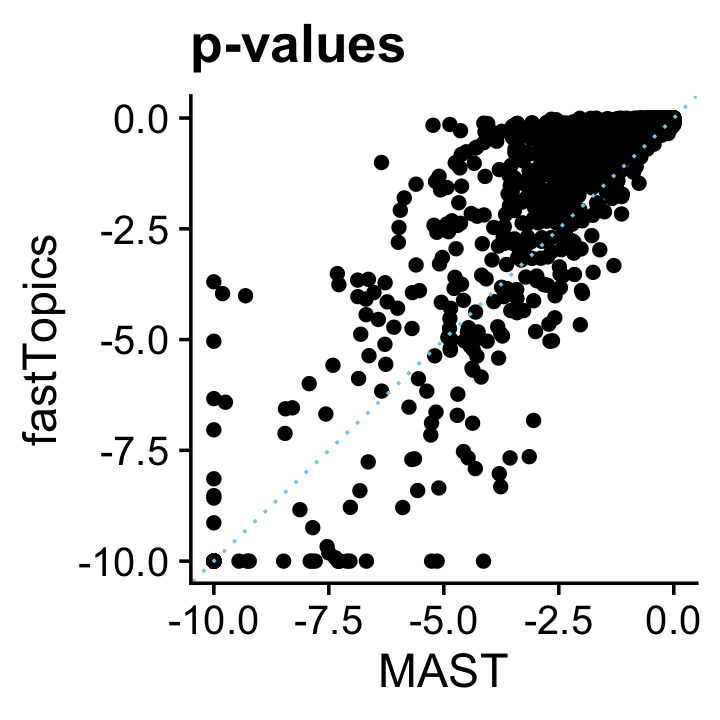
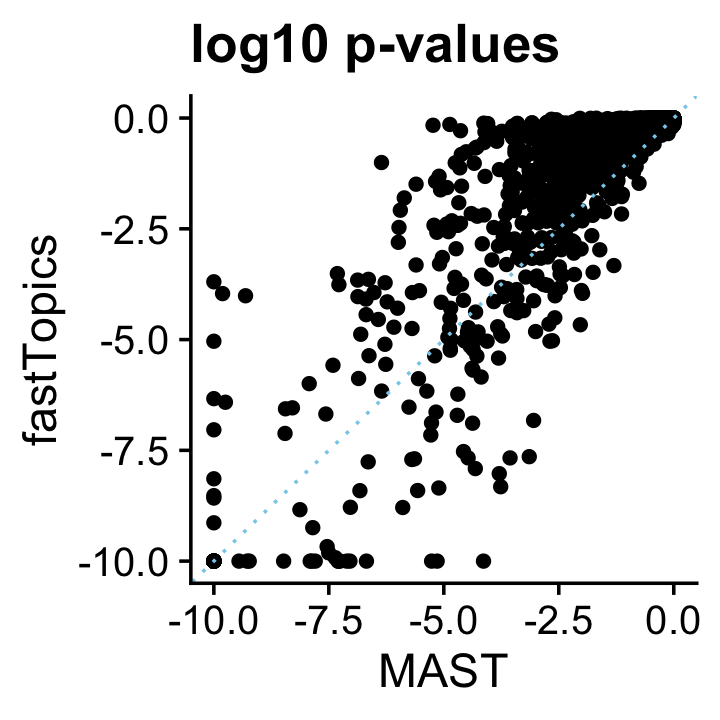
Revised the new plots in de_analysis_detailed_look comparing with MAST.

Changed region(s): [[0.2444, 0.0306, 0.7944, 0.1222]]

diff --git a/docs/de_analysis_detailed_look.html b/docs/de_analysis_detailed_look.html
@@ -429,16 +429,16 @@ fit-poisson-nmf
 <div class="panel panel-default">
 <div class="panel-heading">
 <p class="panel-title">
-<a data-toggle="collapse" data-parent="#workflowr-checks" href="#strongRepositoryversionstrongahrefhttpsgithubcomstephenslabsinglecelltopicstree4dd44afc935f95113cbb9bbfdc4a53154c8d8aa5targetblank4dd44afa"> <span class="glyphicon glyphicon-ok text-success" aria-hidden="true"></span> <strong>Repository version:</strong> <a href="https://github.com/stephenslab/single-cell-topics/tree/4dd44afc935f95113cbb9bbfdc4a53154c8d8aa5" target="_blank">4dd44af</a> </a>
+<a data-toggle="collapse" data-parent="#workflowr-checks" href="#strongRepositoryversionstrongahrefhttpsgithubcomstephenslabsinglecelltopicstree34217d5e3e9a18f3afaacfe00af8e1775506c0e4targetblank34217d5a"> <span class="glyphicon glyphicon-ok text-success" aria-hidden="true"></span> <strong>Repository version:</strong> <a href="https://github.com/stephenslab/single-cell-topics/tree/34217d5e3e9a18f3afaacfe00af8e1775506c0e4" target="_blank">34217d5</a> </a>
 </p>
 </div>
[2 lines of base64/hex data omitted]
 <div class="panel-body">
 <p>
 Great! You are using Git for version control. Tracking code development and connecting the code version to the results is critical for reproducibility.
 </p>
 <p>
-The results in this page were generated with repository version <a href="https://github.com/stephenslab/single-cell-topics/tree/4dd44afc935f95113cbb9bbfdc4a53154c8d8aa5" target="_blank">4dd44af</a>. See the <em>Past versions</em> tab to see a history of the changes made to the R Markdown and HTML files.
+The results in this page were generated with repository version <a href="https://github.com/stephenslab/single-cell-topics/tree/34217d5e3e9a18f3afaacfe00af8e1775506c0e4" target="_blank">34217d5</a>. See the <em>Past versions</em> tab to see a history of the changes made to the R Markdown and HTML files.
 </p>
 <p>
 Note that you need to be careful to ensure that all relevant files for the analysis have been committed to Git prior to generating the results (you can use <code>wflow_publish</code> or <code>wflow_git_commit</code>). workflowr only checks the R Markdown file, but you know if there are other scripts or data files that it depends on. Below is the status of the Git repository when the results were generated:
@@ -503,6 +503,40 @@ Message
 </tr>
 </thead>
 <tbody>
+<tr>
+<td>
+Rmd
+</td>
+<td>
+<a href="https://github.com/stephenslab/single-cell-topics/blob/34217d5e3e9a18f3afaacfe00af8e1775506c0e4/analysis/de_analysis_detailed_look.Rmd" target="_blank">34217d5</a>
+</td>
+<td>
+Peter Carbonetto
+</td>
+<td>
+2021-11-10
+</td>
+<td>
+workflowr::wflow_publish(“de_analysis_detailed_look.Rmd”, verbose = TRUE)
+</td>
+</tr>
+<tr>
+<td>
+html
+</td>
+<td>
+<a href="https://rawcdn.githack.com/stephenslab/single-cell-topics/c0bc1616cd8a654b67b11dd11a46479f3304e943/docs/de_analysis_detailed_look.html" target="_blank">c0bc161</a>
+</td>
+<td>
+Peter Carbonetto
+</td>
+<td>
+2021-11-10
+</td>
+<td>
+Added MAST results to de_analysis_detailed_look analysis.
+</td>
+</tr>
 <tr>
 <td>
 Rmd
@@ -1877,7 +1911,7 @@ Peter Carbonetto
 </table>
 </div>
 </div>
-<p>The next two bar charts show the overall impact of the shrinkage on the distribution of the <span class="math inline">\(z\)</span>-scores; dark blue bars are for diifferentially expressed genes, and orange bars are for non-differentially expressed genes. (For better visualizataion the <span class="math inline">\(z\)</span>-scores have been projected onto the interval <span class="math inline">\([-8,+8]\)</span>.)</p>
+<p>The next two bar charts show the overall impact of the shrinkage on the distribution of the <em>z</em>-scores; dark blue bars are for diifferentially expressed genes, and orange bars are for non-differentially expressed genes. (For better visualizataion the <em>z</em>-scores have been projected onto the interval <span class="math inline">\([-8,+8]\)</span>.)</p>
 <pre class="r"><code>pdat &lt;- data.frame(noshrink = clamp(de.noshrink$z[,2],-8,+8),
                    shrink   = clamp(de$z[,2],-8,+8),
                    de       = factor(nonzero_lfc))
@@ -1954,7 +1988,7 @@ Peter Carbonetto
 </table>
 </div>
 </div>
-<p>And the next two bar charts show the overall impact of the shrinkage on the <span class="math inline">\(p\)</span>-values.</p>
+<p>And the next two bar charts show the overall impact of the shrinkage on the <em>p</em>-values.</p>
 <pre class="r"><code>pdat &lt;- data.frame(noshrink = 10^(-de.noshrink$lpval[,2]),
                    shrink   = 10^(-de$lpval[,2]),
                    de       = factor(nonzero_lfc))
@@ -2031,7 +2065,7 @@ Peter Carbonetto
 </table>
 </div>
 </div>
-<p>Both the <span class="math inline">\(z\)</span>-score and <span class="math inline">\(p\)</span>-value plots show that the adaptive shrinkage step more strongly encourages the LFC estimates for the non-DE genes toward zero.</p>
+<p>Both the <em>z</em>-score and <em>p</em>-value plots show that the adaptive shrinkage step more strongly encourages the LFC estimates for the non-DE genes toward zero.</p>
 </div>
 <div id="quantifying-uncertainty-in-the-lfc-estimates" class="section level2">
 <h2>Quantifying uncertainty in the LFC estimates</h2>
@@ -2108,7 +2142,7 @@ Peter Carbonetto
 </table>
 </div>
 </div>
-<p>To illustrate the impact of this on the DE analysis, consider the K-L divergence measure used in Dey, Hsiao &amp; Stephens (2017) to rank genes, a measure which doesn’t fully account for uncertainty in the LFCs. Since the K-L divergence is not a signed ranking measure like the <span class="math inline">\(z\)</span>-score, here we focus only on genes that are estimated to have greater expression in topic 2 compared to topic 1. (For better visualization, we show the distribution of the K-L divergences on the log scale, and any <span class="math inline">\(z\)</span>-scores larger than 4 are shown as 4.)</p>
+<p>To illustrate the impact of this on the DE analysis, consider the K-L divergence measure used in Dey, Hsiao &amp; Stephens (2017) to rank genes, a measure which doesn’t fully account for uncertainty in the LFCs. Since the K-L divergence is not a signed ranking measure like the <em>z</em>-score, here we focus only on genes that are estimated to have greater expression in topic 2 compared to topic 1. (For better visualization, we show the distribution of the K-L divergences on the log scale, and any <em>z</em>-scores larger than 4 are shown as 4.)</p>
 <pre class="r"><code>i     &lt;- which(fit$F[,2] - fit$F[,1] &gt; -1e-8)
 D     &lt;- fastTopics:::min_kl_poisson(fit$F)
 pdat1 &lt;- data.frame(lkl = log10(D[,2] + 1e-8),de = factor(nonzero_lfc))
@@ -2177,7 +2211,7 @@ Peter Carbonetto
 </table>
 </div>
 </div>
-<p>Without fully accounting for uncertainty, sometimes genes with very large LFCs get highly ranked by the K-L divergence measure (while also being uncertain about these estimates), whereas this happens less often for the <span class="math inline">\(z\)</span>-scores.</p>
+<p>Without fully accounting for uncertainty, sometimes genes with very large LFCs get highly ranked by the K-L divergence measure (while also being uncertain about these estimates), whereas this happens less often for the <em>z</em>-scores.</p>
 <p>To underscore the importance of accounting for uncertainty, suppose we used the KL-divergences and the <em>p</em>-values returned by <code>de_analysis(shrink.method = &quot;ash&quot;)</code> to discover differentially expressed genes. The power vs. FDR curves show that, at low false discovery rates (say, FDR &lt; 0.2), the rankings accounting for uncertainty in the LFC estimates (with or without shrinkage) perform much better than the ranking based on the KL divergence measure. We also see that using adaptive shrinkage produces a modest improvement. As before, to draw a fair comparison with the K-L divergence-based ranking, we focus only on genes that are estimated to have greater expression in topic 2 compared to topic 1.</p>
 <pre class="r"><code>pdat1 &lt;- create_fdr_vs_power_curve(-D[i,2],nonzero_lfc[i],length.out = 140)
 pdat2 &lt;- create_fdr_vs_power_curve(-de.noshrink$lpval[i,2],nonzero_lfc[i],
@@ -2305,7 +2339,7 @@ Peter Carbonetto
 </div>
 <div id="assessing-accuracy-of-the-monte-carlo-estimates" class="section level2">
 <h2>Assessing accuracy of the Monte Carlo estimates</h2>
-<p>We use a simple MCMC algorithm to estimate LFC posterior statistics. To assess accuracy of the posterior calculations, we perform the DE analysis twice, and compare the <span class="math inline">\(z\)</span>-scores returned by the two <code>de_analysis</code> runs. If the <span class="math inline">\(z\)</span>-scores are very consistent between the two runs this suggests that they are mostly accurate.</p>
+<p>We use a simple MCMC algorithm to estimate LFC posterior statistics. To assess accuracy of the posterior calculations, we perform the DE analysis twice, and compare the <em>z</em>-scores returned by the two <code>de_analysis</code> runs. If the <em>z</em>-scores are very consistent between the two runs this suggests that they are mostly accurate.</p>
 <p>To illustrate, we first compute the posteriors using 1,000 Monte Carlo samples:</p>
 <pre class="r"><code>set.seed(1); de1 &lt;- de_analysis(fit,X,control = list(ns = 1000,nc = 2))
 # Using 2 RcppParallel threads.
@@ -2319,7 +2353,7 @@ set.seed(2); de2 &lt;- de_analysis(fit,X,control = list(ns = 1000,nc = 2))
 # Fitting 10000 Poisson models with k=2 using method=&quot;scd&quot;.
 # Computing log-fold change statistics from 10000 Poisson models with k=2.
 # Stabilizing posterior log-fold change estimates using adaptive shrinkage.</code></pre>
-<p>Now we compare the <span class="math inline">\(z\)</span>-scores estimated by these two runs in a simple scatterplot:</p>
+<p>Now we compare the <em>z</em>-scores estimated by these two runs in a simple scatterplot:</p>
 <pre class="r"><code>pdat &lt;- data.frame(x = de1$z[,2],y = de2$z[,2])
 ggplot(pdat,aes(x = x,y = y,fill = log10mean)) +
   geom_point(shape = 21,color = &quot;white&quot;,fill = &quot;royalblue&quot;,size = 2) +
@@ -2384,7 +2418,7 @@ set.seed(2); de2 &lt;- de_analysis(fit,X,control = list(ns = 10000,nc = 2))
 >knitr cache options</a> for more details.
 </p>
 </div>
-<p>Indeed, with 10,000 Monte Carlo samples the two sets of <span class="math inline">\(z\)</span>-score estimates are now very similar:</p>
+<p>Indeed, with 10,000 Monte Carlo samples the two sets of <em>z</em>-score estimates are now very similar:</p>
 <pre class="r"><code>pdat &lt;- data.frame(x = de1$z[,2],y = de2$z[,2])
 ggplot(pdat,aes(x = x,y = y,fill = log10mean)) +
   geom_point(shape = 21,color = &quot;white&quot;,fill = &quot;royalblue&quot;,size = 2) +
@@ -2472,7 +2506,7 @@ deseq &lt;- lfcShrink(deseq,coef = &quot;cluster_2_vs_1&quot;,type = &quot;ashr&
 # using &#39;ashr&#39; for LFC shrinkage. If used in published research, please cite:
 #     Stephens, M. (2016) False discovery rates: a new deal. Biostatistics, 18:2.
 #     https://doi.org/10.1093/biostatistics/kxw041</code></pre>
-<p>Now we run the MAST DE analysis via the “FindMarkers” interface in Seurat:</p>
+<p>Now we run the MAST differential expression analysis via the “FindMarkers” interface in Seurat:</p>
 <pre class="r"><code>seurat &lt;- CreateSeuratObject(counts = t(X))
 Idents(seurat) &lt;- cluster
 mast &lt;- FindMarkers(seurat,ident.1 = &quot;2&quot;,ident.2 = NULL,test.use = &quot;MAST&quot;,
@@ -2480,30 +2514,11 @@ mast &lt;- FindMarkers(seurat,ident.1 = &quot;2&quot;,ident.2 = NULL,test.use = 
 # 
 # Done!
 # Combining coefficients and standard errors
-# Warning in melt(coefAndCI, as.is = TRUE): The melt generic in data.table has
-# been passed a array and will attempt to redirect to the relevant reshape2
-# method; please note that reshape2 is deprecated, and this redirection is now
-# deprecated as well. To continue using melt methods from reshape2 while both
-# libraries are attached, e.g. melt.list, you can prepend the namespace like
-# reshape2::melt(coefAndCI). In the next version, this warning will become an
-# error.
 # Calculating log-fold changes
-# Warning in melt(lfc): The melt generic in data.table has been passed a list
-# and will attempt to redirect to the relevant reshape2 method; please note that
-# reshape2 is deprecated, and this redirection is now deprecated as well. To
-# continue using melt methods from reshape2 while both libraries are attached,
-# e.g. melt.list, you can prepend the namespace like reshape2::melt(lfc). In the
-# next version, this warning will become an error.
 # Calculating likelihood ratio tests
 # Refitting on reduced model...
 # 
-# Done!
-# Warning in melt(llrt): The melt generic in data.table has been passed a list
-# and will attempt to redirect to the relevant reshape2 method; please note that
-# reshape2 is deprecated, and this redirection is now deprecated as well. To
-# continue using melt methods from reshape2 while both libraries are attached,
-# e.g. melt.list, you can prepend the namespace like reshape2::melt(llrt). In the
-# next version, this warning will become an error.</code></pre>
+# Done!</code></pre>
 <p>The posterior mean estimates from the fastTopics DE analysis closely align with the DESeq2 estimates:</p>
 <pre class="r"><code>pdat &lt;- data.frame(DESeq2     = deseq$log2FoldChange,
                    fastTopics = de$postmean[,2])
@@ -2550,17 +2565,7 @@ Peter Carbonetto
 </table>
 </div>
 </div>
-<p><em>Add text here.</em></p>
-<pre class="r"><code>genes &lt;- rownames(mast)
-pdat  &lt;- data.frame(MAST       = mast$avg_logFC,
-                    fastTopics = de$postmean[genes,2])
-ggplot(pdat,aes(x = MAST,y = fastTopics)) +
-  geom_point() +
-  geom_abline(intercept = 0,slope = 1,color = &quot;skyblue&quot;,linetype = &quot;dotted&quot;) +
-  ggtitle(&quot;LFC estimates&quot;) +
-  theme_cowplot()</code></pre>
-<p><img src="figure/de_analysis_detailed_look.Rmd/fasttopics-vs-mast-1.png" width="360" style="display: block; margin: auto;" /></p>
-<p>And likewise the <span class="math inline">\(z\)</span>-scores:</p>
+<p>And likewise the <em>z</em>-scores:</p>
 <pre class="r"><code>deseq$z &lt;- with(deseq,log2FoldChange/lfcSE)
 pdat &lt;- data.frame(DESeq2     = deseq$z,
                    fastTopics = de$z[,2])
@@ -2618,7 +2623,7 @@ Peter Carbonetto
 </table>
 </div>
 </div>
-<p>The <span class="math inline">\(p\)</span>-value and LFSR distributions are also correspondingly similar in shape:</p>
+<p>The <em>p</em>-value and LFSR distributions are also correspondingly similar in shape:</p>
 <pre class="r"><code>pdat &lt;- data.frame(deseq2 = deseq$padj,
                    shrink = de$lfsr[,2],
                    de     = factor(nonzero_lfc))
@@ -2684,15 +2689,100 @@ Peter Carbonetto
 </table>
 </div>
 </div>
-<p><em>Add text here.</em></p>
+<p>The MAST LFC estimates broadly resemble the fastTopics estimates, although the MAST estimates tend to be underestimates, and occasionally some estimates that are much more extreme (and probably would benefit from a shrinkage step, e.g., using adaptive shrinkage):</p>
+<pre class="r"><code>genes &lt;- rownames(mast)
+pdat  &lt;- data.frame(MAST       = mast$avg_logFC,
+                    fastTopics = de$postmean[genes,2])
+ggplot(pdat,aes(x = MAST,y = fastTopics)) +
+  geom_point() +
+  geom_abline(intercept = 0,slope = 1,color = &quot;skyblue&quot;,linetype = &quot;dotted&quot;) +
+  ggtitle(&quot;LFC estimates&quot;) +
+  theme_cowplot()</code></pre>
+<p><img src="figure/de_analysis_detailed_look.Rmd/fasttopics-vs-mast-1.png" width="360" style="display: block; margin: auto;" /></p>
+<p>
+<button type="button" class="btn btn-default btn-xs btn-workflowr btn-workflowr-fig" data-toggle="collapse" data-target="#fig-fasttopics-vs-mast-1">
+Past versions of fasttopics-vs-mast-1.png
+</button>
+</p>
+<div id="fig-fasttopics-vs-mast-1" class="collapse">
+<div class="table-responsive">
+<table class="table table-condensed table-hover">
+<thead>
+<tr>
+<th>
+Version
+</th>
+<th>
+Author
+</th>
+<th>
+Date
+</th>
+</tr>
+</thead>
+<tbody>
+<tr>
+<td>
+<a href="https://github.com/stephenslab/single-cell-topics/blob/c0bc1616cd8a654b67b11dd11a46479f3304e943/docs/figure/de_analysis_detailed_look.Rmd/fasttopics-vs-mast-1.png" target="_blank">c0bc161</a>
+</td>
+<td>
+Peter Carbonetto
+</td>
+<td>
+2021-11-10
+</td>
+</tr>
+</tbody>
+</table>
+</div>
+</div>
+<p>The <code>FindMarkers</code> function in Seurat does not output <em>z</em>-scores, but we can compare <em>p</em>-values:</p>
 <pre class="r"><code>pdat &lt;- data.frame(MAST       = pmax(-10,log10(mast$p_val)),
                    fastTopics = pmax(-10,-de$lpval[genes,2]))
 ggplot(pdat,aes(x = MAST,y = fastTopics)) +
   geom_point() +
   geom_abline(intercept = 0,slope = 1,color = &quot;skyblue&quot;,linetype = &quot;dotted&quot;) +
-  ggtitle(&quot;p-values&quot;) +
+  ggtitle(&quot;log10 p-values&quot;) +
   theme_cowplot()</code></pre>
 <p><img src="figure/de_analysis_detailed_look.Rmd/fasttopics-vs-mast-pvalues-1.png" width="360" style="display: block; margin: auto;" /></p>
+<p>
+<button type="button" class="btn btn-default btn-xs btn-workflowr btn-workflowr-fig" data-toggle="collapse" data-target="#fig-fasttopics-vs-mast-pvalues-1">
+Past versions of fasttopics-vs-mast-pvalues-1.png
+</button>
+</p>
+<div id="fig-fasttopics-vs-mast-pvalues-1" class="collapse">
+<div class="table-responsive">
+<table class="table table-condensed table-hover">
+<thead>
+<tr>
+<th>
+Version
+</th>
+<th>
+Author
+</th>
+<th>
+Date
+</th>
+</tr>
+</thead>
+<tbody>
+<tr>
+<td>
+<a href="https://github.com/stephenslab/single-cell-topics/blob/c0bc1616cd8a654b67b11dd11a46479f3304e943/docs/figure/de_analysis_detailed_look.Rmd/fasttopics-vs-mast-pvalues-1.png" target="_blank">c0bc161</a>
+</td>
+<td>
+Peter Carbonetto
+</td>
+<td>
+2021-11-10
+</td>
+</tr>
+</tbody>
+</table>
+</div>
+</div>
+<p>Again, the <em>p</em>-values are broadly similar. The effect of the fastTopics shrinkage step is apparent as many less significant <em>p</em>-values get driven toward 1.</p>
 <p>Based on these results, we would expect that the performance of fastTopics and DESeq2 for discovering differentially expressed genes is very similar, with a slight advantage given to fastTopics (although consider it is using 1/3 more data):</p>
 <pre class="r"><code>mast_pval                 &lt;- rep(1,10000)
 names(mast_pval)          &lt;- colnames(X)
@@ -2708,6 +2798,44 @@ ggplot(pdat,aes(x = fdr,y = power,color = method)) +
   scale_color_manual(values = c(&quot;darkblue&quot;,&quot;tomato&quot;,&quot;dodgerblue&quot;)) +
   theme_cowplot()</code></pre>
 <p><img src="figure/de_analysis_detailed_look.Rmd/fdr-vs-power-1.png" width="540" style="display: block; margin: auto;" /></p>
+<p>
+<button type="button" class="btn btn-default btn-xs btn-workflowr btn-workflowr-fig" data-toggle="collapse" data-target="#fig-fdr-vs-power-1">
+Past versions of fdr-vs-power-1.png
+</button>
+</p>
+<div id="fig-fdr-vs-power-1" class="collapse">
+<div class="table-responsive">
+<table class="table table-condensed table-hover">
+<thead>
+<tr>
+<th>
+Version
+</th>
+<th>
+Author
+</th>
+<th>
+Date
+</th>
+</tr>
+</thead>
+<tbody>
+<tr>
+<td>
+<a href="https://github.com/stephenslab/single-cell-topics/blob/c0bc1616cd8a654b67b11dd11a46479f3304e943/docs/figure/de_analysis_detailed_look.Rmd/fdr-vs-power-1.png" target="_blank">c0bc161</a>
+</td>
+<td>
+Peter Carbonetto
+</td>
+<td>
+2021-11-10
+</td>
+</tr>
+</tbody>
+</table>
+</div>
+</div>
+<p>Interestingly, MAST underperforms DESeq2 at lower FDRs, and overperforms DESeq2 at higher FDRs, whereas fastTopics performs at least as well as the other methods at any FDR.</p>
 <p>And here is the ROC curve comparing DESeq2, MAST and fastTopics:</p>
 <pre class="r"><code>pdat1 &lt;- create_roc_curve(deseq$padj,nonzero_lfc,length.out = 100)
 pdat2 &lt;- create_roc_curve(de$lfsr[,2],nonzero_lfc,length.out = 100)
@@ -2721,7 +2849,43 @@ ggplot(pdat,aes(x = fpr,y = tpr,color = method)) +
   scale_color_manual(values = c(&quot;darkblue&quot;,&quot;tomato&quot;,&quot;dodgerblue&quot;)) +
   theme_cowplot()</code></pre>
 <p><img src="figure/de_analysis_detailed_look.Rmd/roc-1.png" width="540" style="display: block; margin: auto;" /></p>
-<p><em>Add text here.</em></p>
+<p>
+<button type="button" class="btn btn-default btn-xs btn-workflowr btn-workflowr-fig" data-toggle="collapse" data-target="#fig-roc-1">
+Past versions of roc-1.png
+</button>
+</p>
+<div id="fig-roc-1" class="collapse">
+<div class="table-responsive">
+<table class="table table-condensed table-hover">
+<thead>
+<tr>
+<th>
+Version
+</th>
+<th>
+Author
+</th>
+<th>
+Date
+</th>
+</tr>
+</thead>
+<tbody>
+<tr>
+<td>
+<a href="https://github.com/stephenslab/single-cell-topics/blob/c0bc1616cd8a654b67b11dd11a46479f3304e943/docs/figure/de_analysis_detailed_look.Rmd/roc-1.png" target="_blank">c0bc161</a>
+</td>
+<td>
+Peter Carbonetto
+</td>
+<td>
+2021-11-10
+</td>
+</tr>
+</tbody>
+</table>
+</div>
+</div>
 <br>
 <p>
 <button type="button" class="btn btn-default btn-workflowr btn-workflowr-sessioninfo" data-toggle="collapse" data-target="#workflowr-sessioninfo" style="display: block;">
